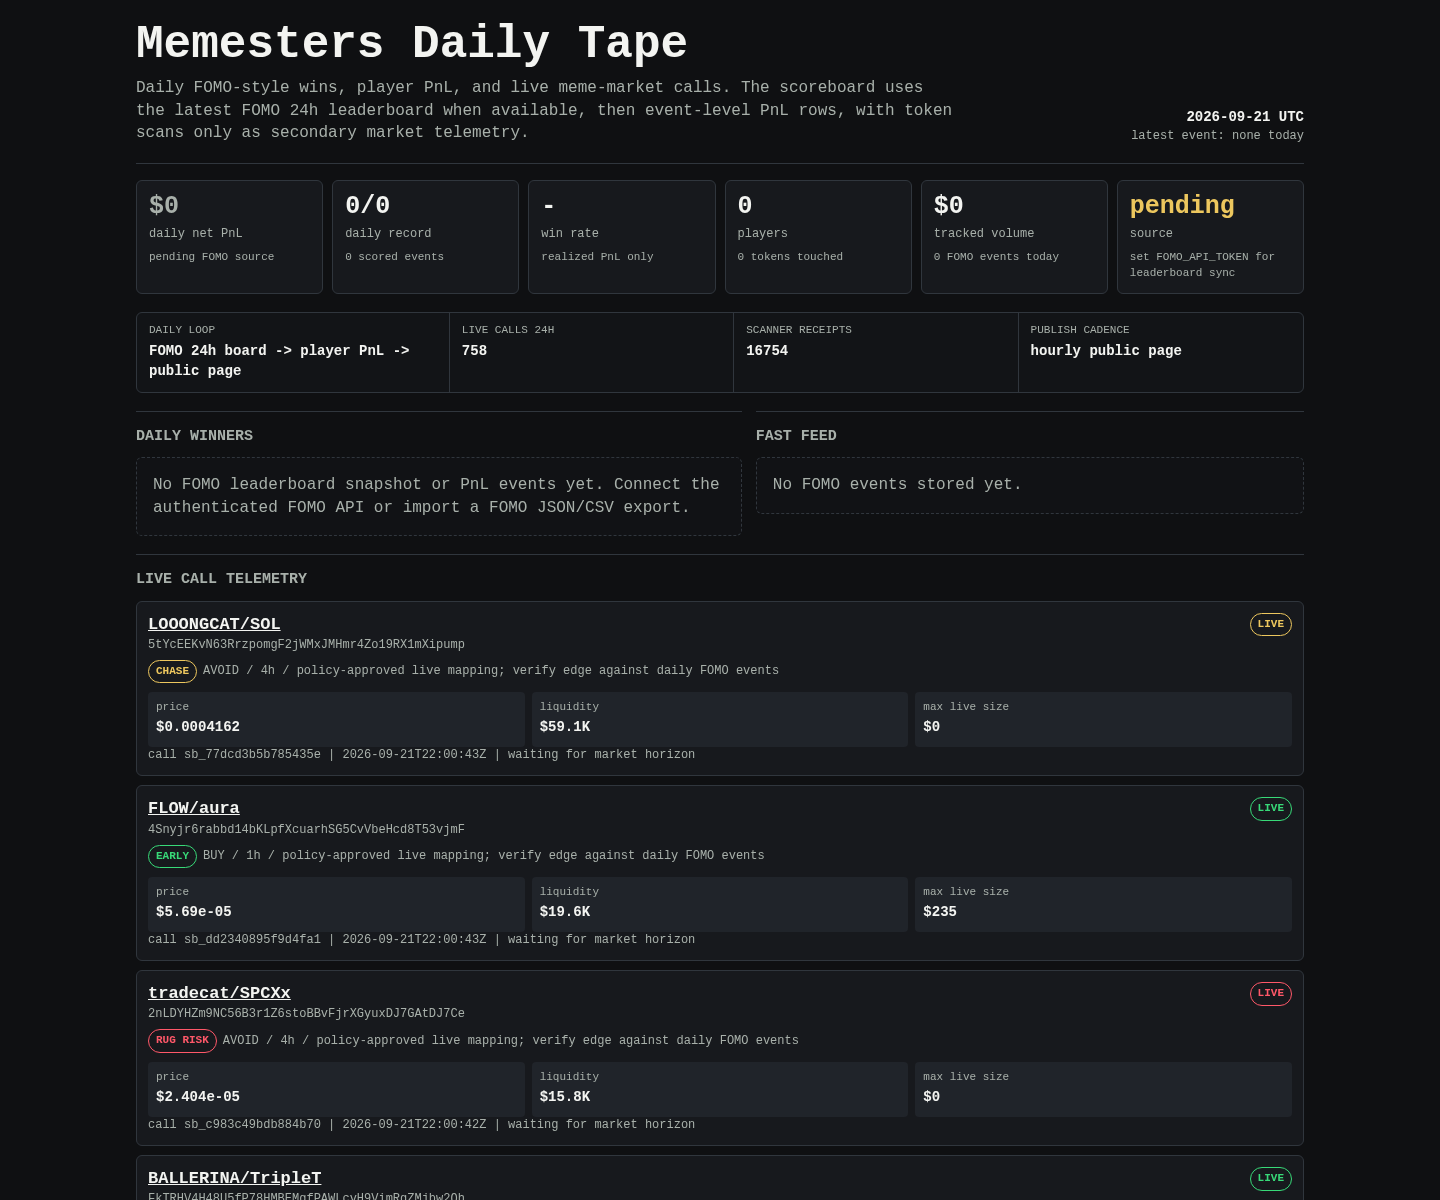
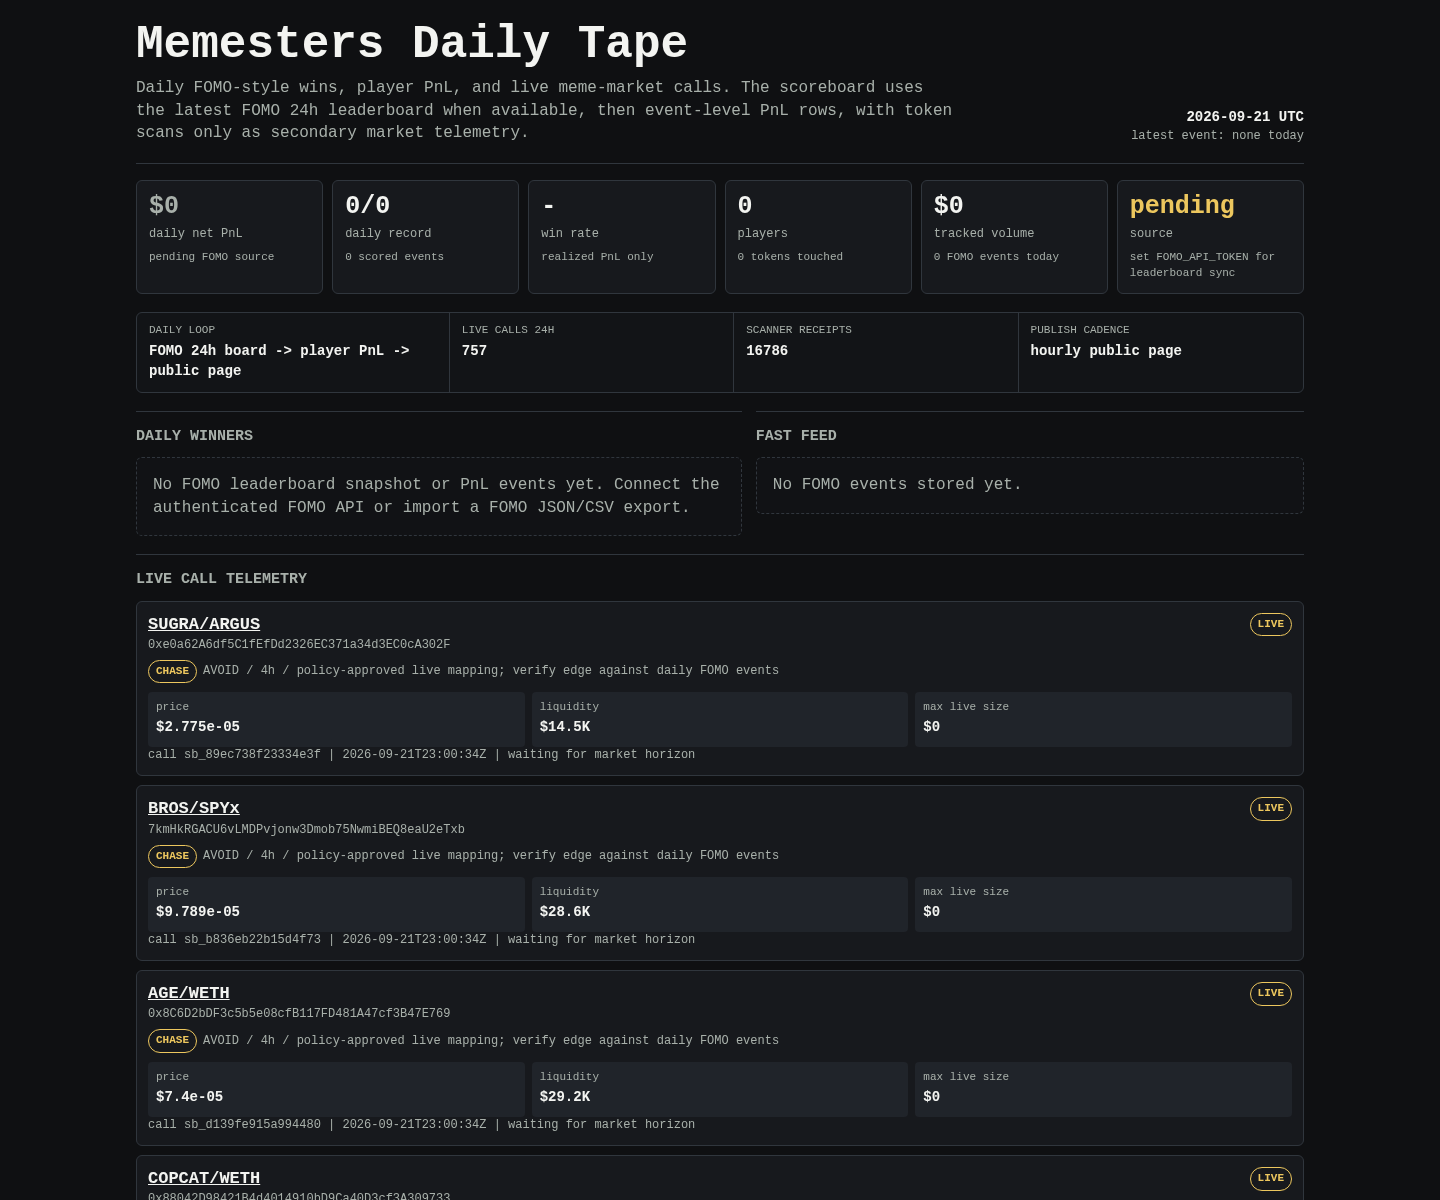
Update Memesters scoreboard

diff --git a/memesters/index.html b/memesters/index.html
@@ -149,8 +149,8 @@
 
     <div class="rail" aria-label="live operating loop">
       <div><span>daily loop</span><b>FOMO 24h board -> player PnL -> public page</b></div>
-      <div><span>live calls 24h</span><b>758</b></div>
-      <div><span>scanner receipts</span><b>16754</b></div>
+      <div><span>live calls 24h</span><b>757</b></div>
+      <div><span>scanner receipts</span><b>16786</b></div>
       <div><span>publish cadence</span><b>hourly public page</b></div>
     </div>
 
@@ -171,8 +171,8 @@
     <article class="receipt">
       <div class="receipt-head">
         <div>
-          <div class="pair"><a href="https://dexscreener.com/solana/atqdmjz6epcdy76mwqr5fek1kifrurswejc4dtryfnvv">LOOONGCAT/SOL</a></div>
-          <div class="addr">5tYcEEKvN63RrzpomgF2jWMxJMHmr4Zo19RX1mXipump</div>
+          <div class="pair"><a href="https://dexscreener.com/arc/0xa895051ccbedc632ea74d9ad7307c32397e5ce1a6b6ce4fc10df009b5921043d">SUGRA/ARGUS</a></div>
+          <div class="addr">0xe0a62A6df5C1fEfDd2326EC371a34d3EC0cA302F</div>
           <div class="addr policy-line">
             <span class="badge chase">CHASE</span>
             <span>AVOID / 4h / policy-approved live mapping; verify edge against daily FOMO events</span>
@@ -181,40 +181,82 @@
         <span class="badge chase">LIVE</span>
       </div>
       <div class="receipt-grid">
-        <div class="kv"><span>price</span><b>$0.0004162</b></div>
-        <div class="kv"><span>liquidity</span><b>$59.1K</b></div>
+        <div class="kv"><span>price</span><b>$2.775e-05</b></div>
+        <div class="kv"><span>liquidity</span><b>$14.5K</b></div>
         <div class="kv"><span>max live size</span><b>$0</b></div>
       </div>
-      <div class="outcomes">call sb_77dcd3b5b785435e | 2026-09-21T22:00:43Z | waiting for market horizon</div>
+      <div class="outcomes">call sb_89ec738f23334e3f | 2026-09-21T23:00:34Z | waiting for market horizon</div>
     </article>
     
 
     <article class="receipt">
       <div class="receipt-head">
         <div>
-          <div class="pair"><a href="https://dexscreener.com/solana/b6rak7adnbltdgrua6mresflzxxue5lczxuonnxfft2e">FLOW/aura</a></div>
-          <div class="addr">4Snyjr6rabbd14bKLpfXcuarhSG5CvVbeHcd8T53vjmF</div>
+          <div class="pair"><a href="https://dexscreener.com/solana/b7ckbzt8u8xmawchz3kdwqv7b9jdftdxecgftcwqmjwd">BROS/SPYx</a></div>
+          <div class="addr">7kmHkRGACU6vLMDPvjonw3Dmob75NwmiBEQ8eaU2eTxb</div>
           <div class="addr policy-line">
-            <span class="badge early">EARLY</span>
-            <span>BUY / 1h / policy-approved live mapping; verify edge against daily FOMO events</span>
+            <span class="badge chase">CHASE</span>
+            <span>AVOID / 4h / policy-approved live mapping; verify edge against daily FOMO events</span>
           </div>
         </div>
-        <span class="badge early">LIVE</span>
+        <span class="badge chase">LIVE</span>
       </div>
       <div class="receipt-grid">
-        <div class="kv"><span>price</span><b>$5.69e-05</b></div>
-        <div class="kv"><span>liquidity</span><b>$19.6K</b></div>
-        <div class="kv"><span>max live size</span><b>$235</b></div>
+        <div class="kv"><span>price</span><b>$9.789e-05</b></div>
+        <div class="kv"><span>liquidity</span><b>$28.6K</b></div>
+        <div class="kv"><span>max live size</span><b>$0</b></div>
       </div>
-      <div class="outcomes">call sb_dd2340895f9d4fa1 | 2026-09-21T22:00:43Z | waiting for market horizon</div>
+      <div class="outcomes">call sb_b836eb22b15d4f73 | 2026-09-21T23:00:34Z | waiting for market horizon</div>
     </article>
     
 
     <article class="receipt">
       <div class="receipt-head">
         <div>
-          <div class="pair"><a href="https://dexscreener.com/solana/e14xyc8nr1ejgscvkdf5zhvevugs8qyefpyzsxhppl8s">tradecat/SPCXx</a></div>
-          <div class="addr">2nLDYHZm9NC56B3r1Z6stoBBvFjrXGyuxDJ7GAtDJ7Ce</div>
+          <div class="pair"><a href="https://dexscreener.com/robinhood/0xdb26d41ac6c66cab477f7d7238ca0e1f5520c30d">AGE/WETH</a></div>
+          <div class="addr">0x8C6D2bDF3c5b5e08cfB117FD481A47cf3B47E769</div>
+          <div class="addr policy-line">
+            <span class="badge chase">CHASE</span>
+            <span>AVOID / 4h / policy-approved live mapping; verify edge against daily FOMO events</span>
+          </div>
+        </div>
+        <span class="badge chase">LIVE</span>
+      </div>
+      <div class="receipt-grid">
+        <div class="kv"><span>price</span><b>$7.4e-05</b></div>
+        <div class="kv"><span>liquidity</span><b>$29.2K</b></div>
+        <div class="kv"><span>max live size</span><b>$0</b></div>
+      </div>
+      <div class="outcomes">call sb_d139fe915a994480 | 2026-09-21T23:00:34Z | waiting for market horizon</div>
+    </article>
+    
+
+    <article class="receipt">
+      <div class="receipt-head">
+        <div>
+          <div class="pair"><a href="https://dexscreener.com/robinhood/0xc586fcefc588870aa3159b713aa813578326562c">COPCAT/WETH</a></div>
+          <div class="addr">0x88042D98421B4d4014910bD9Ca40D3cf3A309733</div>
+          <div class="addr policy-line">
+            <span class="badge chase">CHASE</span>
+            <span>AVOID / 4h / policy-approved live mapping; verify edge against daily FOMO events</span>
+          </div>
+        </div>
+        <span class="badge chase">LIVE</span>
+      </div>
+      <div class="receipt-grid">
+        <div class="kv"><span>price</span><b>$0.001987</b></div>
+        <div class="kv"><span>liquidity</span><b>$127.4K</b></div>
+        <div class="kv"><span>max live size</span><b>$0</b></div>
+      </div>
+      <div class="outcomes">call sb_59a6a1ff6ab24fc2 | 2026-09-21T23:00:34Z | waiting for market horizon</div>
+    </article>
+    
+
+    <article class="receipt">
+      <div class="receipt-head">
+        <div>
+          <div class="pair"><a href="https://dexscreener.com/solana/g3rj1ngcbrbkfbf3sfj4bxaautkfw7uqr1t5fs1jqawm">PRESTIGE/MSFTx</a></div>
+          <div class="addr">E4AGeNV5d4D3i7sty8X7wx5C5uq4VbvDNZym54P7pTtq</div>
           <div class="addr policy-line">
             <span class="badge rug-risk">RUG RISK</span>
             <span>AVOID / 4h / policy-approved live mapping; verify edge against daily FOMO events</span>
@@ -223,19 +265,19 @@
         <span class="badge rug-risk">LIVE</span>
       </div>
       <div class="receipt-grid">
-        <div class="kv"><span>price</span><b>$2.404e-05</b></div>
-        <div class="kv"><span>liquidity</span><b>$15.8K</b></div>
+        <div class="kv"><span>price</span><b>$2.328e-05</b></div>
+        <div class="kv"><span>liquidity</span><b>$14.1K</b></div>
         <div class="kv"><span>max live size</span><b>$0</b></div>
       </div>
-      <div class="outcomes">call sb_c983c49bdb884b70 | 2026-09-21T22:00:42Z | waiting for market horizon</div>
+      <div class="outcomes">call sb_3e889af13f014ea3 | 2026-09-21T23:00:34Z | waiting for market horizon</div>
     </article>
     
 
     <article class="receipt">
       <div class="receipt-head">
         <div>
-          <div class="pair"><a href="https://dexscreener.com/solana/4n4fegm7u5thjzpuzwdzjm8gcfqvsldrcrd6hmmdumem">BALLERINA/TripleT</a></div>
-          <div class="addr">FkTRHV4H48U5fP78HMBEMgfPAWLcvH9VimRgZMjbw2Qh</div>
+          <div class="pair"><a href="https://dexscreener.com/solana/97iqdczgreycjxynlmd6ykabbg5uitdezuy5rr2epkcp">UAP/SOL</a></div>
+          <div class="addr">EgrQxdckmSBEzKXzMD6PxjYdwsMcBpJjW8dx3RBWx4By</div>
           <div class="addr policy-line">
             <span class="badge early">EARLY</span>
             <span>BUY / 1h / policy-approved live mapping; verify edge against daily FOMO events</span>
@@ -244,19 +286,40 @@
         <span class="badge early">LIVE</span>
       </div>
       <div class="receipt-grid">
-        <div class="kv"><span>price</span><b>$1.755e-05</b></div>
-        <div class="kv"><span>liquidity</span><b>$12.9K</b></div>
-        <div class="kv"><span>max live size</span><b>$56</b></div>
+        <div class="kv"><span>price</span><b>$4.785e-05</b></div>
+        <div class="kv"><span>liquidity</span><b>$17.9K</b></div>
+        <div class="kv"><span>max live size</span><b>$31</b></div>
       </div>
-      <div class="outcomes">call sb_01992590e7c7450c | 2026-09-21T22:00:42Z | waiting for market horizon</div>
+      <div class="outcomes">call sb_1a5b94a7453b4ad4 | 2026-09-21T23:00:34Z | waiting for market horizon</div>
     </article>
     
 
     <article class="receipt">
       <div class="receipt-head">
         <div>
-          <div class="pair"><a href="https://dexscreener.com/solana/fnhe2p9gbdkq6mglssngf8bglaxyg2mbm41xbcvt2h6z">SUPER/SOL</a></div>
-          <div class="addr">9LYqtgmvv888zCX8wHZ25JeRBrjnaXHL1pDx4DSiov2b</div>
+          <div class="pair"><a href="https://dexscreener.com/robinhood/0x12052d9ea9f5e88e402bc40a20f2b0c5cc8499d07c0c0fe37c158464f78a2e6f">AN1/ETH</a></div>
+          <div class="addr">0x2dCaBd142A7f36945df628Cb1e8fD2EEA3c698C7</div>
+          <div class="addr policy-line">
+            <span class="badge early">EARLY</span>
+            <span>BUY / 1h / policy-approved live mapping; verify edge against daily FOMO events</span>
+          </div>
+        </div>
+        <span class="badge early">LIVE</span>
+      </div>
+      <div class="receipt-grid">
+        <div class="kv"><span>price</span><b>$6.856e-05</b></div>
+        <div class="kv"><span>liquidity</span><b>$25.5K</b></div>
+        <div class="kv"><span>max live size</span><b>$307</b></div>
+      </div>
+      <div class="outcomes">call sb_9e66a87e46b84fa0 | 2026-09-21T23:00:34Z | waiting for market horizon</div>
+    </article>
+    
+
+    <article class="receipt">
+      <div class="receipt-head">
+        <div>
+          <div class="pair"><a href="https://dexscreener.com/solana/6bpxfxhuofispiroev56qrua5jmegbhu8qoq9rr26fft">ZETANITE/xSOL</a></div>
+          <div class="addr">F17A3vK7oieu8ugPtoJV2NYbVfLi7Fdb5DuTysgjSTNK</div>
           <div class="addr policy-line">
             <span class="badge rug-risk">RUG RISK</span>
             <span>AVOID / 4h / policy-approved live mapping; verify edge against daily FOMO events</span>
@@ -265,40 +328,40 @@
         <span class="badge rug-risk">LIVE</span>
       </div>
       <div class="receipt-grid">
-        <div class="kv"><span>price</span><b>$5.691e-05</b></div>
-        <div class="kv"><span>liquidity</span><b>$19.9K</b></div>
+        <div class="kv"><span>price</span><b>$3.824e-05</b></div>
+        <div class="kv"><span>liquidity</span><b>$17.7K</b></div>
         <div class="kv"><span>max live size</span><b>$0</b></div>
       </div>
-      <div class="outcomes">call sb_4cae6acd538a4f1a | 2026-09-21T22:00:42Z | waiting for market horizon</div>
+      <div class="outcomes">call sb_1e7871e728cf4f88 | 2026-09-21T23:00:34Z | waiting for market horizon</div>
     </article>
     
 
     <article class="receipt">
       <div class="receipt-head">
         <div>
-          <div class="pair"><a href="https://dexscreener.com/solana/2lsslkqyqli4ywcwczezesvhbrcs6dqccqmgjspmp6g7">X/SPCXx</a></div>
-          <div class="addr">87XZ8BVFZvxAuiRpbad4B6SWW3ogwSsywM4duDmSrA55</div>
+          <div class="pair"><a href="https://dexscreener.com/solana/gefscs4cocuf6mriaekggavmcgjptiovjnq18ommqeqk">Shrub/SPCXx</a></div>
+          <div class="addr">2duHCpT85G1k4zTFkqVnqXMGZ9J9ctkrNj5Nz2tiSTNK</div>
           <div class="addr policy-line">
-            <span class="badge early">EARLY</span>
-            <span>BUY / 1h / policy-approved live mapping; verify edge against daily FOMO events</span>
+            <span class="badge rug-risk">RUG RISK</span>
+            <span>AVOID / 4h / policy-approved live mapping; verify edge against daily FOMO events</span>
           </div>
         </div>
-        <span class="badge early">LIVE</span>
+        <span class="badge rug-risk">LIVE</span>
       </div>
       <div class="receipt-grid">
-        <div class="kv"><span>price</span><b>$3.275e-05</b></div>
-        <div class="kv"><span>liquidity</span><b>$16.5K</b></div>
-        <div class="kv"><span>max live size</span><b>$132</b></div>
+        <div class="kv"><span>price</span><b>$2.951e-06</b></div>
+        <div class="kv"><span>liquidity</span><b>$5.0K</b></div>
+        <div class="kv"><span>max live size</span><b>$0</b></div>
       </div>
-      <div class="outcomes">call sb_285132a9d2a549fd | 2026-09-21T22:00:42Z | waiting for market horizon</div>
+      <div class="outcomes">call sb_62a109d053ca474f | 2026-09-21T22:45:32Z | waiting for market horizon</div>
     </article>
     
 
     <article class="receipt">
       <div class="receipt-head">
         <div>
-          <div class="pair"><a href="https://dexscreener.com/robinhood/0xcec0583d887177212090192a45c5fdaf678c4474a0906d02b5f713c91cb0f547">tradecat/WETH</a></div>
-          <div class="addr">0x1444F1F75cEaDA756F6BAf5748b1958896885d58</div>
+          <div class="pair"><a href="https://dexscreener.com/solana/gvtjd6astjbfayqeugdj3yrv2gbpv68pstgo9hbty3xj">tradecat/SOL</a></div>
+          <div class="addr">EHY56TBNQ1jX6zUQx7gTPwbdGo7zfKMUH6kvXLbSpump</div>
           <div class="addr policy-line">
             <span class="badge chase">CHASE</span>
             <span>AVOID / 4h / policy-approved live mapping; verify edge against daily FOMO events</span>
@@ -307,74 +370,11 @@
         <span class="badge chase">LIVE</span>
       </div>
       <div class="receipt-grid">
-        <div class="kv"><span>price</span><b>$4.306e-05</b></div>
-        <div class="kv"><span>liquidity</span><b>$29.5K</b></div>
+        <div class="kv"><span>price</span><b>$0.0007003</b></div>
+        <div class="kv"><span>liquidity</span><b>$76.5K</b></div>
         <div class="kv"><span>max live size</span><b>$0</b></div>
       </div>
-      <div class="outcomes">call sb_7b9b0b6e0e4f4b28 | 2026-09-21T22:00:42Z | waiting for market horizon</div>
-    </article>
-    
-
-    <article class="receipt">
-      <div class="receipt-head">
-        <div>
-          <div class="pair"><a href="https://dexscreener.com/base/0xbbb79f10ba7a225ffd0ddb87554a132a38747feb9a4c9cdd12f865d87c82c30b">EMBOW/VVV</a></div>
-          <div class="addr">0x28C959B032de0657ac230A569Ecdbba326731dD2</div>
-          <div class="addr policy-line">
-            <span class="badge chase">CHASE</span>
-            <span>AVOID / 4h / policy-approved live mapping; verify edge against daily FOMO events</span>
-          </div>
-        </div>
-        <span class="badge chase">LIVE</span>
-      </div>
-      <div class="receipt-grid">
-        <div class="kv"><span>price</span><b>$0.0001418</b></div>
-        <div class="kv"><span>liquidity</span><b>$109.2K</b></div>
-        <div class="kv"><span>max live size</span><b>$0</b></div>
-      </div>
-      <div class="outcomes">call sb_4b015cce25164739 | 2026-09-21T21:45:29Z | waiting for market horizon</div>
-    </article>
-    
-
-    <article class="receipt">
-      <div class="receipt-head">
-        <div>
-          <div class="pair"><a href="https://dexscreener.com/solana/3rkpyea23v1kzkfqrsuwa8497vahwcoym9kymjaedlpv">COPPERCAT/SOL</a></div>
-          <div class="addr">C1YaF1UQZeP1zbrLjSpxqMATxT9fKNgAbyA9cje8pump</div>
-          <div class="addr policy-line">
-            <span class="badge chase">CHASE</span>
-            <span>AVOID / 4h / policy-approved live mapping; verify edge against daily FOMO events</span>
-          </div>
-        </div>
-        <span class="badge chase">LIVE</span>
-      </div>
-      <div class="receipt-grid">
-        <div class="kv"><span>price</span><b>$0.0002519</b></div>
-        <div class="kv"><span>liquidity</span><b>$45.2K</b></div>
-        <div class="kv"><span>max live size</span><b>$0</b></div>
-      </div>
-      <div class="outcomes">call sb_7415943e3cc64cf6 | 2026-09-21T21:45:29Z | waiting for market horizon</div>
-    </article>
-    
-
-    <article class="receipt">
-      <div class="receipt-head">
-        <div>
-          <div class="pair"><a href="https://dexscreener.com/solana/afzr4csckpug5iu2x94vu3hwdercxzfo88dpyecfuvvu">ORACLE/SOL</a></div>
-          <div class="addr">HUcEu35oz1yku1yLBSYRL1UyAnAh59ZCkAYPRe2xpump</div>
-          <div class="addr policy-line">
-            <span class="badge early">EARLY</span>
-            <span>BUY / 1h / policy-approved live mapping; verify edge against daily FOMO events</span>
-          </div>
-        </div>
-        <span class="badge early">LIVE</span>
-      </div>
-      <div class="receipt-grid">
-        <div class="kv"><span>price</span><b>$8.319e-05</b></div>
-        <div class="kv"><span>liquidity</span><b>$24.7K</b></div>
-        <div class="kv"><span>max live size</span><b>$297</b></div>
-      </div>
-      <div class="outcomes">call sb_a17e2738343a435e | 2026-09-21T21:45:28Z | waiting for market horizon</div>
+      <div class="outcomes">call sb_4c5c599c661148e8 | 2026-09-21T22:45:32Z | waiting for market horizon</div>
     </article>
     
     </section>
